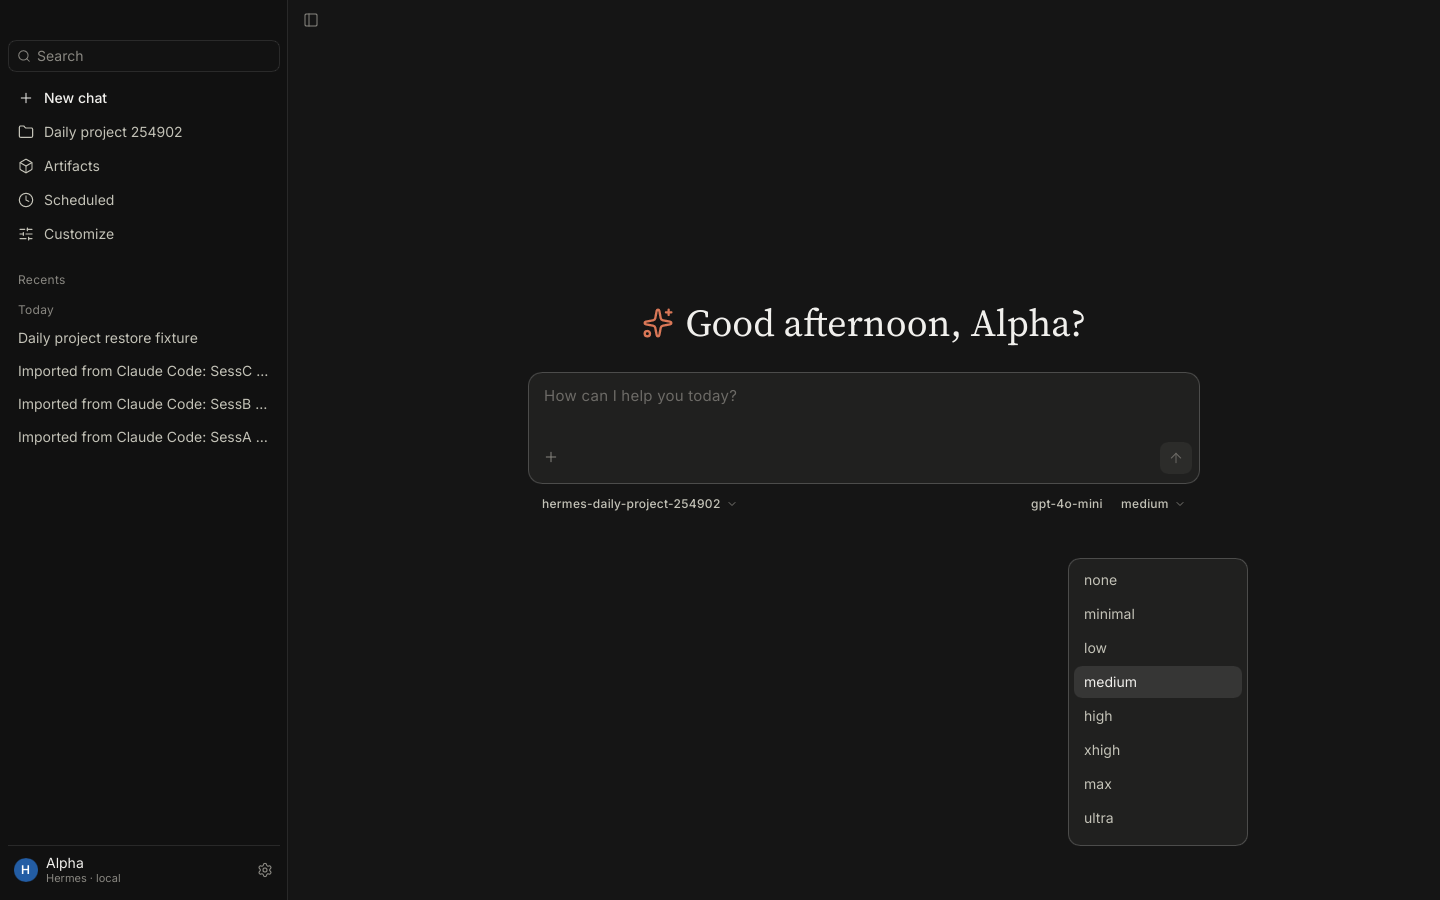
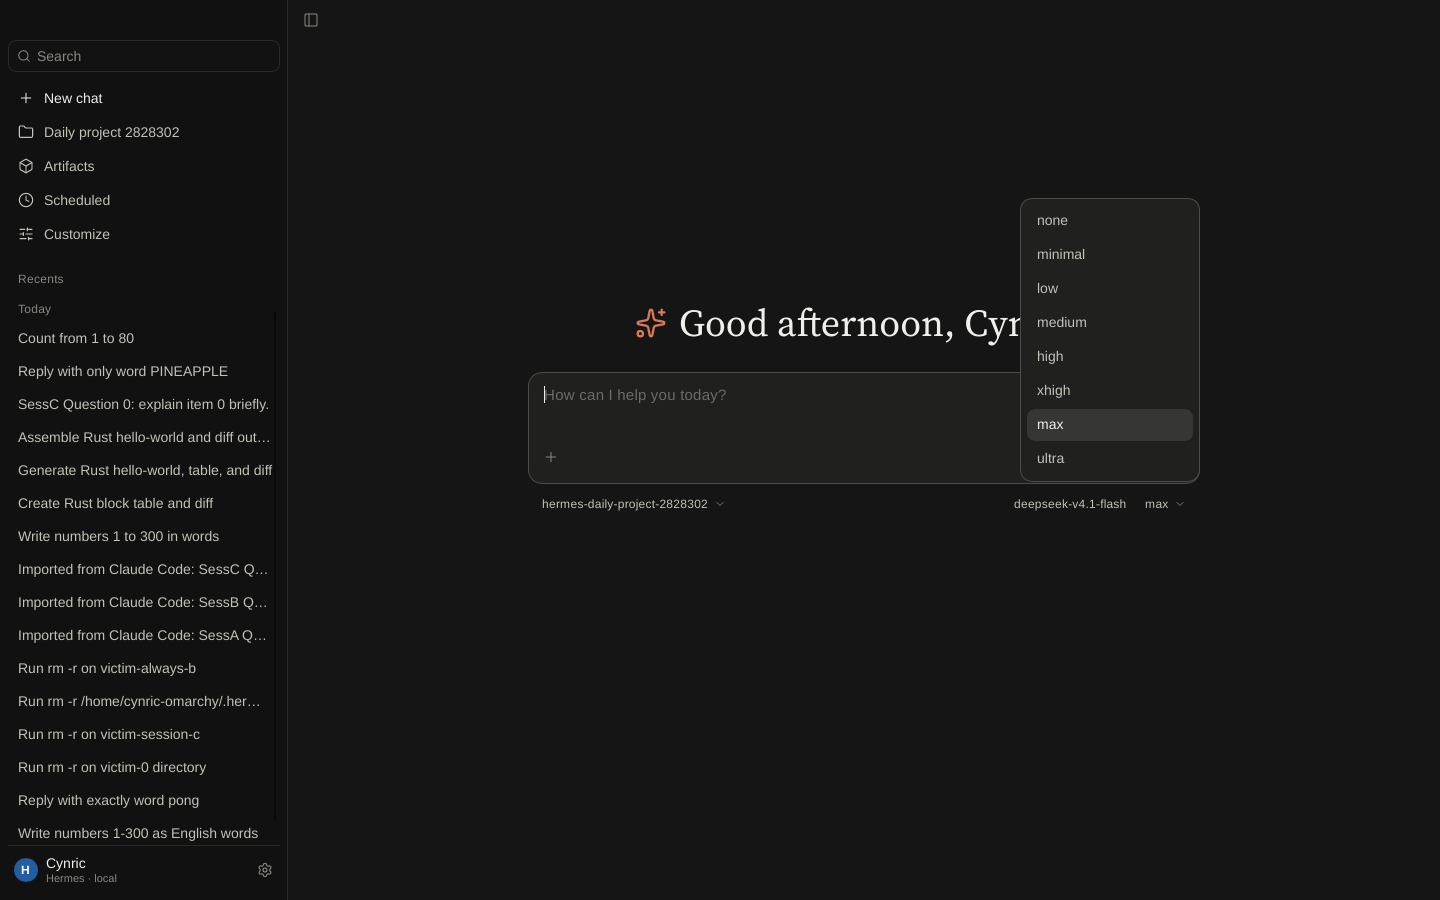
ui: anchor the composer popups to the chip row
The reasoning menu and the model picker were placed at a fixed offset from the bottom of the
content area. The composer is vertically centred while the conversation is empty and docked to
the bottom once it has rows, so in the empty state both opened far away from their chip —
measured, the reasoning menu's last row 344.5 px *below* the chip row (it hugged the window
bottom instead) and 48 px right of the composer's right edge, because the x formula assumed the
docked composer's width (min(w-48, column-w)) rather than the hero's min(w-64, 672).

Composer now computes its chip row's window-space anchor (absolute-position + card height) and
each instance publishes it to the window (`init` plus `changed chip-anchor`, the shape dock-h
already uses — an id inside an `if` block is not visible outside it), so the popups follow
whichever composer is live and also track the card growing as the draft gets taller. Both panels
right-align to the composer's right edge and open just above the chip row, and they shrink and
scroll when the window is too short to fit them. The model picker and the reasoning list hug
their content instead of filling a mostly-empty 420/288 px panel whose only visible rows sat far
from the chip.

New headless geometry gate, crates/hermes-ui/tests/composer_popup_anchor.rs: real clicks on both
chips in both layouts, 14 checks, 0 failed (menu gap 15.0 px, picker 8.0 px, right-edge drift
[…]

diff --git a/crates/hermes-ui/tests/composer_popup_anchor.rs b/crates/hermes-ui/tests/composer_popup_anchor.rs
@@ -1,0 +1,285 @@
+//! Geometry gate for the composer popups: the reasoning-effort menu and the model picker must
+//! hang off the chip row of the composer that owns them.
+//!
+//! The composer is vertically centred while the conversation is empty and docked to the bottom
+//! once it has rows, so a popup placed at a fixed offset from the content area's bottom drifts
+//! away from its chip — that is the bug this guards. Both layouts are measured here with the
+//! testing backend (no window, no display, no backend): the chips are clicked for real, then the
+//! menu/picker geometry is compared against the chip row.
+//!
+//! Needs the element tree, so the *build* must carry Slint debug info:
+//!
+//! ```sh
+//! SLINT_EMIT_DEBUG_INFO=1 cargo test -p hermes-ui --test composer_popup_anchor
+//! ```
+//!
+//! A build without it reports the skip instead of failing, so the default `cargo test
+//! --workspace` stays green. `HERMES_POPUP_SCREENSHOTS=<dir>` also writes .ppm snapshots of each
+//! measured state (needs the software renderer, which that variable switches on).
+
+use std::cell::RefCell;
+use std::rc::Rc;
+use std::time::Duration;
+
+use hermes_ui::{AppState, AppWindow, ChatRow, ModelItem, Motion};
+use i_slint_backend_testing::ElementHandle;
+use slint::platform::PointerEventButton;
+use slint::{ComponentHandle, Model, ModelRc, VecModel};
+
+type Log = Rc<RefCell<Vec<(String, bool, String)>>>;
+
+fn record(log: &Log, name: &str, ok: bool, detail: impl Into<String>) {
+    let detail = detail.into();
+    println!("[{}] {name}: {detail}", if ok { "PASS" } else { "FAIL" });
+    log.borrow_mut().push((name.into(), ok, detail));
+}
+
+async fn sleep(ms: u64) {
+    let (tx, rx) = tokio::sync::oneshot::channel::<()>();
+    slint::Timer::single_shot(Duration::from_millis(ms), move || {
+        let _ = tx.send(());
+    });
+    let _ = rx.await;
+}
+
+fn by_label(ui: &AppWindow, label: &str) -> Option<ElementHandle> {
+    ElementHandle::find_by_accessible_label(ui, label).next()
+}
+
+/// Same as the live test's click helper: drain the pending layout before aiming at an element
+/// that has just appeared.
+async fn click(ui: &AppWindow, label: &str) -> bool {
+    sleep(150).await;
+    if let Some(element) = by_label(ui, label) {
+        element.single_click(PointerEventButton::Left).await;
+        true
+    } else {
+        false
+    }
+}
+
+fn top(e: &ElementHandle) -> f32 {
+    e.absolute_position().y
+}
+
+fn bottom(e: &ElementHandle) -> f32 {
+    e.absolute_position().y + e.size().height
+}
+
+fn right(e: &ElementHandle) -> f32 {
+    e.absolute_position().x + e.size().width
+}
+
+fn screenshot(ui: &AppWindow, name: &str) {
+    let Some(dir) = std::env::var_os("HERMES_POPUP_SCREENSHOTS") else {
+        return;
+    };
+    use std::io::Write;
+    let buffer = ui.window().take_snapshot().expect("headless software snapshot");
+    std::fs::create_dir_all(&dir).unwrap();
+    let path = std::path::PathBuf::from(&dir).join(format!("{name}.ppm"));
+    let mut file = std::fs::File::create(&path).unwrap();
+    writeln!(file, "P6\n{} {}\n255", buffer.width(), buffer.height()).unwrap();
+    for pixel in buffer.as_bytes().as_chunks::<4>().0 {
+        file.write_all(&pixel[..3]).unwrap();
+    }
+    println!("[SCREENSHOT] {}", path.display());
+}
+
+/// Measure both popups against the chip row of the composer that is live in this layout.
+async fn check_layout(ui: &AppWindow, slug: &str, layout: &str, log: &Log) {
+    // --- reasoning menu -------------------------------------------------------------------
+    let clicked = click(ui, "medium ").await;
+    let opened = ui.get_effort_open();
+    if !opened {
+        ui.set_effort_open(true);
+    }
+    sleep(250).await;
+    screenshot(ui, &format!("popup-{slug}-menu"));
+    match (by_label(ui, "medium "), by_label(ui, "none"), by_label(ui, "ultra")) {
+        (Some(chip), Some(first), Some(last)) => {
+            let gap = top(&chip) - bottom(&last);
+            let drift = right(&last) - right(&chip);
+            record(
+                log,
+                &format!("{layout}: reasoning menu hangs just above its chip row"),
+                (4.0..=30.0).contains(&gap),
+                format!(
+                    "chip_top={:.1}, menu_bottom={:.1}, gap={:.1}",
+                    top(&chip),
+                    bottom(&last),
+                    gap
+                ),
+            );
+            record(
+                log,
+                &format!("{layout}: reasoning menu stays inside the window"),
+                bottom(&last) < top(&chip) && top(&first) > 0.0,
+                format!("menu_top={:.1}, menu_bottom={:.1}", top(&first), bottom(&last)),
+            );
+            record(
+                log,
+                &format!("{layout}: reasoning menu right edge rides the composer's right edge"),
+                drift.abs() <= 12.0,
+                format!(
+                    "menu_right={:.1}, chip_right={:.1}, drift={drift:.1}",
+                    right(&last),
+                    right(&chip)
+                ),
+            );
+        }
+        _ => record(
+            log,
+            &format!("{layout}: reasoning menu rows are reachable"),
+            false,
+            format!("clicked={clicked}, opened={opened}"),
+        ),
+    }
+    ui.set_effort_open(false);
+    sleep(150).await;
+
+    // --- model picker ---------------------------------------------------------------------
+    let clicked = click(ui, "gpt-4o-mini ").await;
+    let opened = ui.get_picker_open();
+    if !opened {
+        ui.set_picker_open(true);
+    }
+    sleep(300).await;
+    screenshot(ui, &format!("popup-{slug}-picker"));
+    let panel = ElementHandle::find_by_element_type_name(ui, "ModelPicker").next();
+    // Both popups right-align to the composer's right edge; the row's rightmost chip (effort) is
+    // the closest stand-in for it, since the model chip has the effort chip to its right.
+    match (by_label(ui, "gpt-4o-mini "), by_label(ui, "medium "), panel) {
+        (Some(chip), Some(right_ref), Some(panel)) => {
+            let gap = top(&chip) - bottom(&panel);
+            let drift = right(&panel) - right(&right_ref);
+            record(
+                log,
+                &format!("{layout}: model picker hangs just above its chip row"),
+                (4.0..=30.0).contains(&gap),
+                format!(
+                    "chip_top={:.1}, panel_bottom={:.1}, gap={:.1}",
+                    top(&chip),
+                    bottom(&panel),
+                    gap
+                ),
+            );
+            record(
+                log,
+                &format!("{layout}: model picker stays inside the window"),
+                bottom(&panel) <= top(&chip) && top(&panel) > 0.0,
+                format!("panel_top={:.1}, panel_bottom={:.1}", top(&panel), bottom(&panel)),
+            );
+            record(
+                log,
+                &format!("{layout}: model picker right edge rides the composer's right edge"),
+                drift.abs() <= 12.0,
+                format!(
+                    "panel_right={:.1}, row_right={:.1}, drift={drift:.1}",
+                    right(&panel),
+                    right(&right_ref)
+                ),
+            );
+        }
+        _ => record(
+            log,
+            &format!("{layout}: model picker is reachable"),
+            false,
+            format!("clicked={clicked}, opened={opened}"),
+        ),
+    }
+    ui.set_picker_open(false);
+    sleep(150).await;
+}
+
+#[test]
+fn composer_popups_hang_off_their_chip_row() {
+    let _ = slint::platform::set_platform(Box::new(i_slint_backend_testing::TestingBackend::new(
+        i_slint_backend_testing::TestingBackendOptions {
+            mock_time: false,
+            threading: true,
+            renderer_name: std::env::var_os("HERMES_POPUP_SCREENSHOTS").map(|_| "software".into()),
+        },
+    )));
+    let ui = AppWindow::new().unwrap();
+    ui.window().set_size(slint::LogicalSize::new(1440.0, 900.0));
+    // Measure the settled placement: zero-duration motion skips the picker's scale-in animation,
+    // which would otherwise shift the reported geometry mid-flight.
+    ui.global::<Motion>().set_reduce(true);
+    ui.show().unwrap();
+
+    let log: Log = Rc::default();
+    let (weak, l) = (ui.as_weak(), log.clone());
+    slint::spawn_local(async move {
+        let ui = weak.unwrap();
+        let st = ui.global::<AppState>();
+        st.set_effort_label("medium".into());
+        st.set_model_label("gpt-4o-mini".into());
+        st.set_models(ModelRc::new(VecModel::from(vec![
+            ModelItem {
+                provider: "openai".into(),
+                provider_name: "OpenAI".into(),
+                model: "".into(),
+                current: false,
+                header: true,
+            },
+            ModelItem {
+                provider: "openai".into(),
+                provider_name: "OpenAI".into(),
+                model: "gpt-4o-mini".into(),
+                current: true,
+                header: false,
+            },
+        ])));
+
+        // ElementHandle searches need Slint debug info in the build; without it nothing at all is
+        // found, and the honest outcome is a reported skip rather than a fabricated pass.
+        if by_label(&ui, "Message").is_none() && by_label(&ui, "New chat").is_none() {
+            eprintln!(
+                "composer_popup_anchor: SKIPPED — this build has no Slint debug info; \
+                 rebuild with SLINT_EMIT_DEBUG_INFO=1 to run the geometry checks"
+            );
+            let _ = slint::quit_event_loop();
+            return;
+        }
+
+        // Empty conversation: the composer (and its chips) sit vertically centred.
+        record(
+            &l,
+            "fixture: the empty conversation starts centred",
+            st.get_rows().row_count() == 0,
+            format!("rows={}", st.get_rows().row_count()),
+        );
+        sleep(300).await;
+        check_layout(&ui, "hero", "empty (centred composer)", &l).await;
+
+        // One row docks the composer to the bottom of the window.
+        st.set_rows(ModelRc::new(VecModel::from(vec![ChatRow {
+            kind: 1,
+            text: "Popup anchor fixture".into(),
+            ..Default::default()
+        }])));
+        sleep(300).await;
+        record(
+            &l,
+            "fixture: a row docks the composer",
+            st.get_rows().row_count() == 1,
+            format!("rows={}", st.get_rows().row_count()),
+        );
+        check_layout(&ui, "docked", "docked (bottom composer)", &l).await;
+
+        let _ = slint::quit_event_loop();
+    })
+    .unwrap();
+    slint::run_event_loop().unwrap();
+    let _ = ui.hide();
+
+    let log = log.borrow();
+    let failed: Vec<&str> = log
+        .iter()
+        .filter(|(_, ok, _)| !ok)
+        .map(|(n, _, _)| n.as_str())
+        .collect();
+    println!("\n{} checks, {} failed", log.len(), failed.len());
+    assert!(failed.is_empty(), "failed: {failed:?}");
+}
